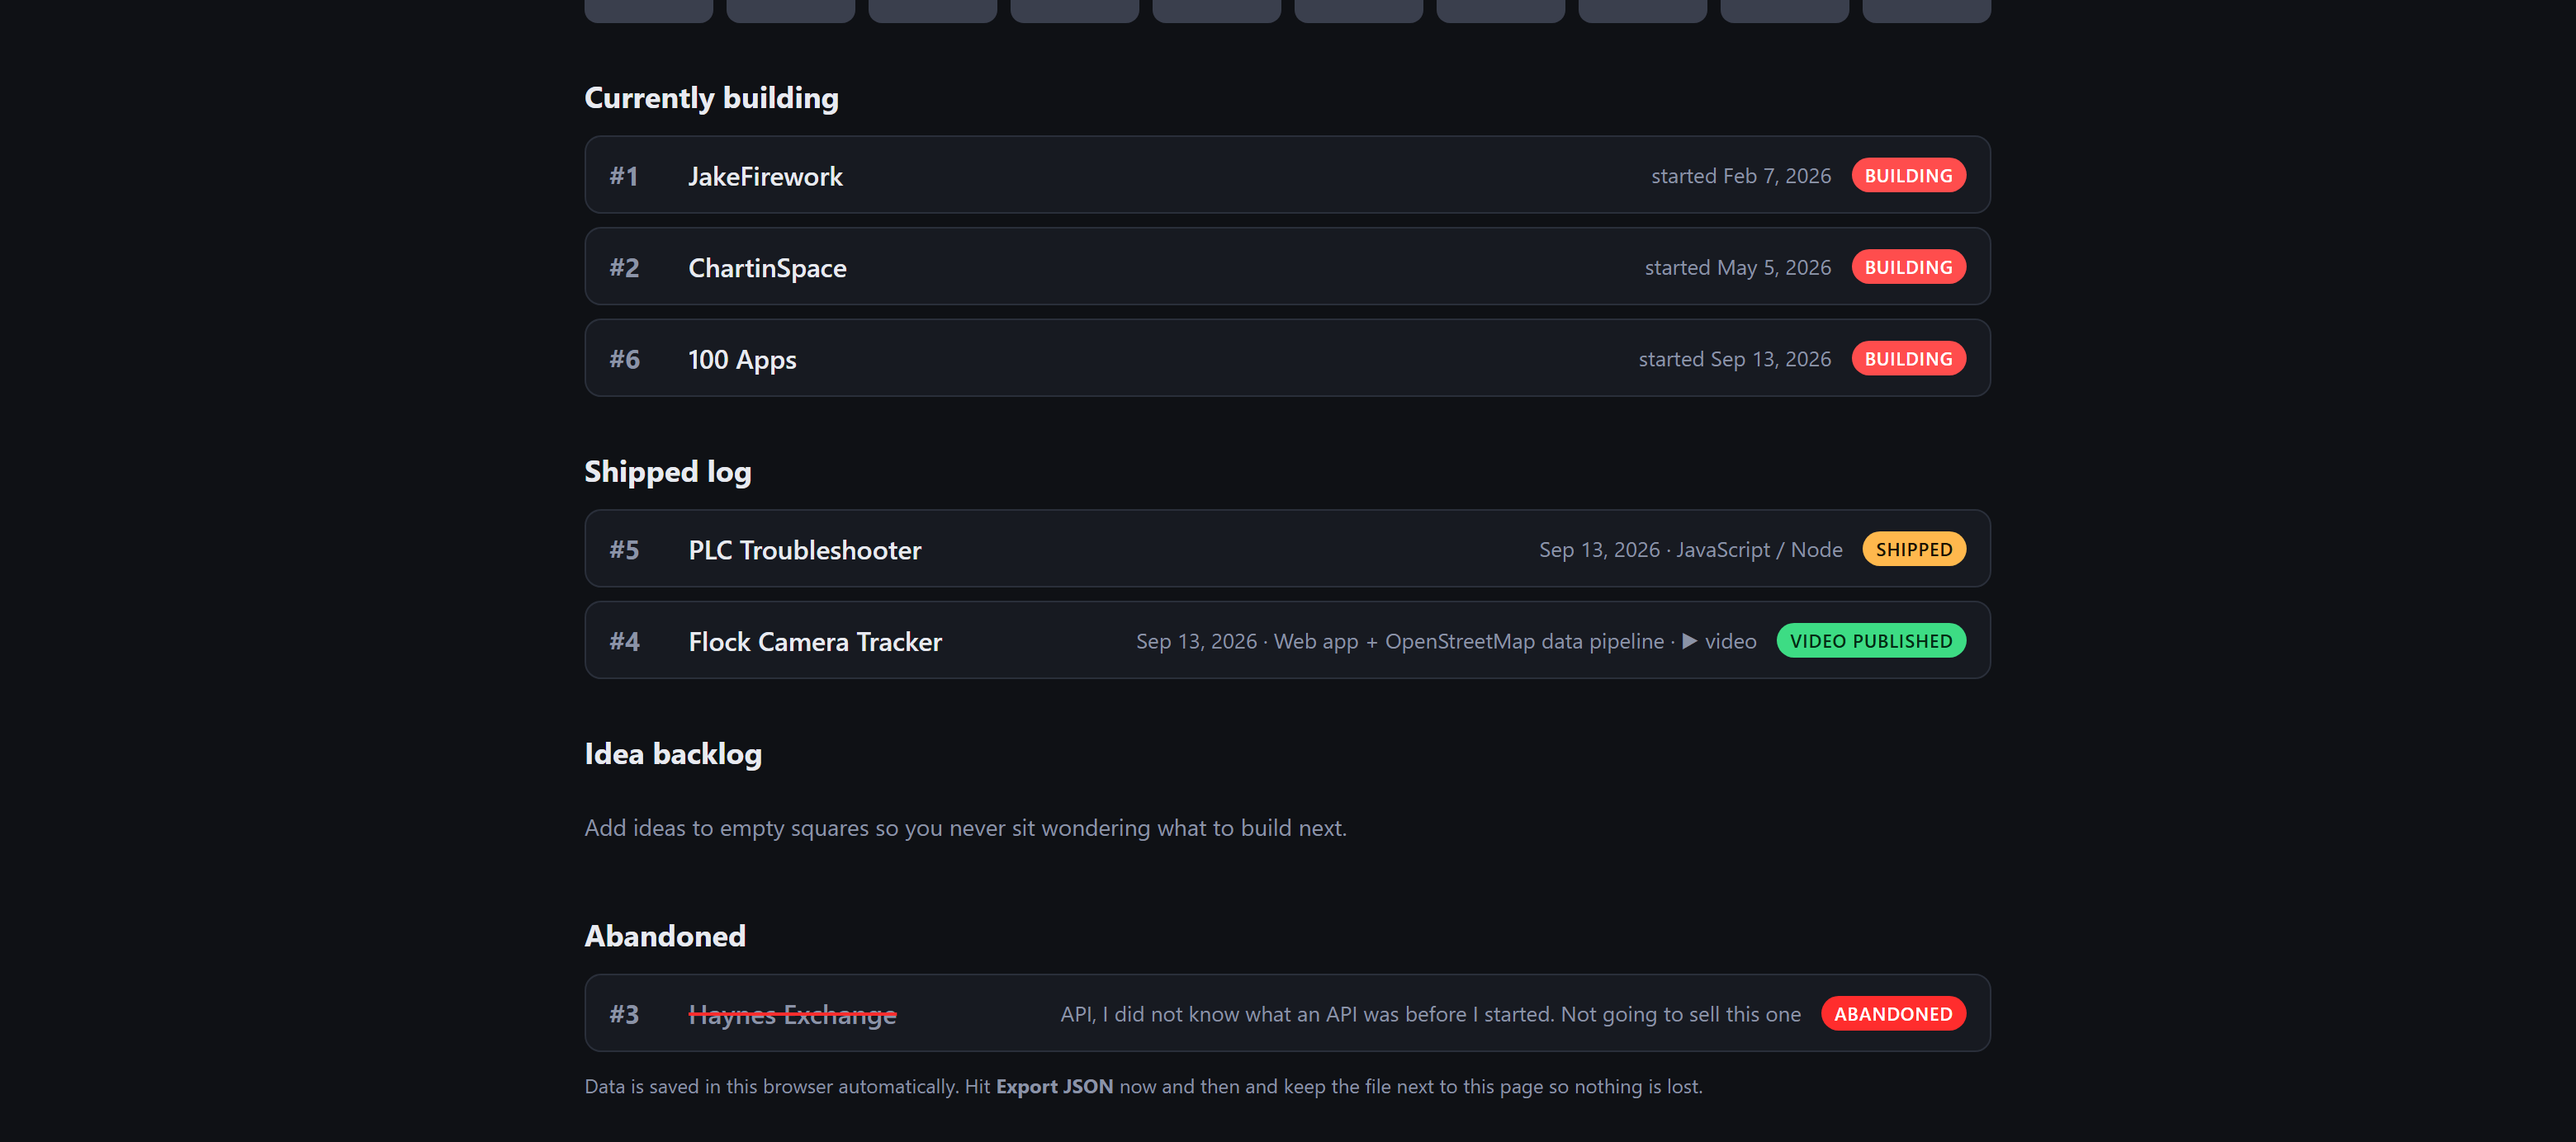
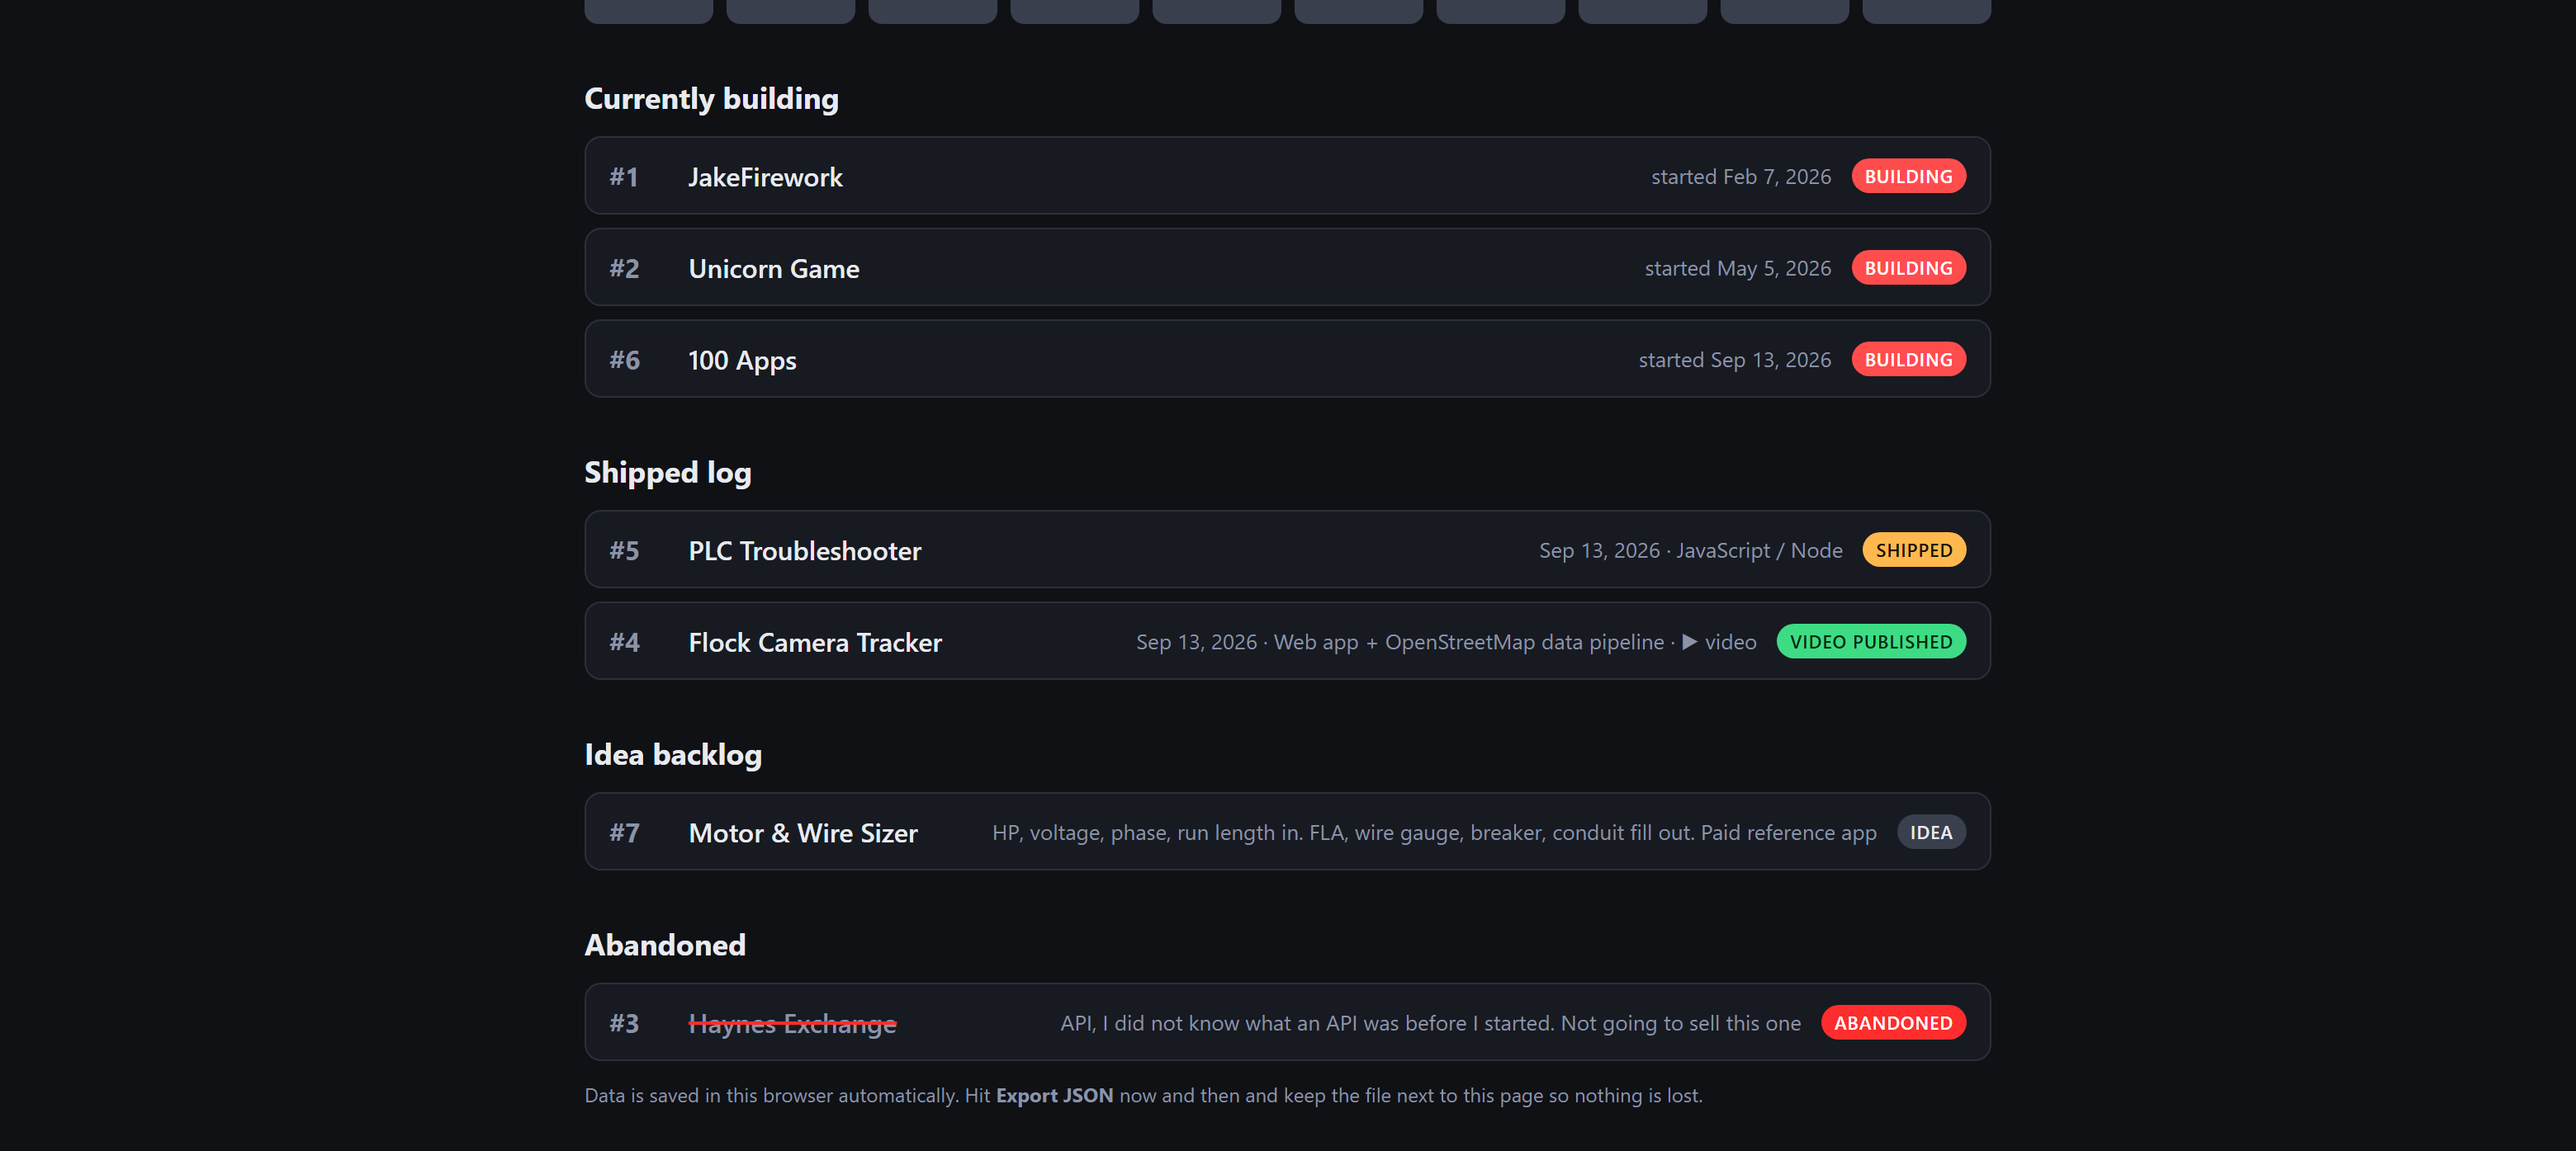
Demo renames (ChartinSpace shown as Unicorn Game); one-shot render_all for every asset

diff --git a/posts/promo/render_all.py b/posts/promo/render_all.py
@@ -1,0 +1,60 @@
+"""Rebuild every demo asset from the live tracker data, with demo-only renames applied."""
+import os, sys, json, subprocess, copy
+sys.path.insert(0, os.path.dirname(os.path.abspath(__file__)))
+from chrome_ls import latest_state
+from PIL import Image
+
+SC = os.path.dirname(os.path.abspath(__file__))
+REPO = r'C:\Users\Brand\OneDrive\Desktop\100 Apps Challege'
+SHOTS = os.path.join(REPO, 'posts', 'screenshots'); PROMO = os.path.join(REPO, 'posts', 'promo')
+CHROME = r'C:\Program Files\Google\Chrome\Application\chrome.exe'
+
+# Names shown in public demos only. The tracker itself is untouched.
+DEMO_RENAMES = {'ChartinSpace': ('Unicorn Game', 'Unicorn platformer game')}
+
+def demo_state():
+    d = copy.deepcopy(latest_state())
+    for a in d['apps']:
+        if a.get('name') in DEMO_RENAMES:
+            a['name'], a['pitch'] = DEMO_RENAMES[a['name']]
+    return d
+
+def chrome(out, url, size, extra=()):
+    subprocess.run([CHROME, '--headless=new', '--disable-gpu', '--hide-scrollbars', '--force-device-scale-factor=2',
+                    f'--window-size={size}', *extra, f'--screenshot={out}', url], stdout=subprocess.DEVNULL, stderr=subprocess.DEVNULL)
+
+d = demo_state()
+json.dump(d, open(os.path.join(SC, 'state-demo.json'), 'w'), indent=1)
+src = open(os.path.join(REPO, 'tracker.html'), encoding='utf-8').read()
+seed = '<script>localStorage.setItem("hundredApps.v1", ' + json.dumps(json.dumps(d)) + ');</script>\n<script>'
+html = src.replace('<script>\n(function () {', seed + '\n(function () {', 1); assert html != src
+open(os.path.join(SC, 'shot.html'), 'w', encoding='utf-8').write(html)
+open(os.path.join(SC, 'shot-modal.html'), 'w', encoding='utf-8').write(
+    html.replace('</body>', '<script>setTimeout(function(){document.querySelector(\'[data-n="6"]\').click();},300);</script>\n</body>'))
+url = 'file:///' + os.path.join(SC, 'shot.html').replace('\\', '/')
+murl = 'file:///' + os.path.join(SC, 'shot-modal.html').replace('\\', '/')
+os.makedirs(os.path.join(SC, 'shots'), exist_ok=True)
+chrome(os.path.join(SC, 'shots', 'page.png'), url, '1600,2400')
+chrome(os.path.join(SC, 'shots', 'modal.png'), murl, '1600,1500', ['--virtual-time-budget=3000'])
+print('rendered page + modal')
+
+# screenshots 01/02
+im = Image.open(os.path.join(SC, 'shots', 'page.png')); W, H = im.size
+bg = im.getpixel((5, 5))[:3]; last = H - 1
+while last > 0 and all(im.getpixel((x, last))[:3] == bg for x in range(0, W, 40)): last -= 1
+im.crop((40, 30, W - 40, 2380)).save(os.path.join(SHOTS, '01-full-board.png'))
+im.crop((40, 2330, W - 40, min(last + 60, H))).save(os.path.join(SHOTS, '02-lists-below-the-board.png'))
+x0, x1 = 730, 2470; w = x1 - x0
+im.crop((x0, 40, x1, 40 + int(w / 1.91))).save(os.path.join(SHOTS, '02-stats-and-grid-landscape.png'))
+im.crop((x0, 40, x1, 40 + w)).save(os.path.join(SHOTS, '03-stats-and-grid-square.png'))
+im.crop((x0, 190, x1, 480)).save(os.path.join(SHOTS, '04-stat-tiles.png'))
+print('screenshots done')
+
+env = dict(os.environ, DEMO_STATE=os.path.join(SC, 'state-demo.json'))
+run = lambda *a: subprocess.run([sys.executable, *a], check=True, env=env)
+run(os.path.join(SC, 'make_sheet.py'), SC, SHOTS)
+run(os.path.join(SC, 'make_ad.py'), SC, SHOTS, '--linkedin')
+run(os.path.join(SC, 'make_ad.py'), SC, SHOTS)
+run(os.path.join(SC, 'make_promo.py'), SC, PROMO, '--linkedin')
+run(os.path.join(SC, 'make_promo.py'), SC, PROMO)
+print('all done')

diff --git a/posts/promo/make_sheet.py b/posts/promo/make_sheet.py
@@ -6,7 +6,7 @@ SC = sys.argv[1]; OUT = sys.argv[2]
 sys.path.insert(0, SC)
 from chrome_ls import latest_state
 
-d = latest_state()
+d = json.load(open(os.environ['DEMO_STATE'])) if os.environ.get('DEMO_STATE') else latest_state()
 apps = [a for a in d['apps'] if a.get('name')]
 STATUS = {'idea': 'Idea', 'building': 'Building', 'shipped': 'Shipped', 'video': 'Video published'}
 def cost(a): return sum(float(c.get('amount') or 0) for c in a.get('costs') or [])
